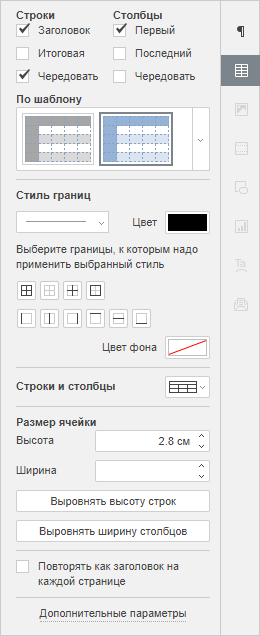
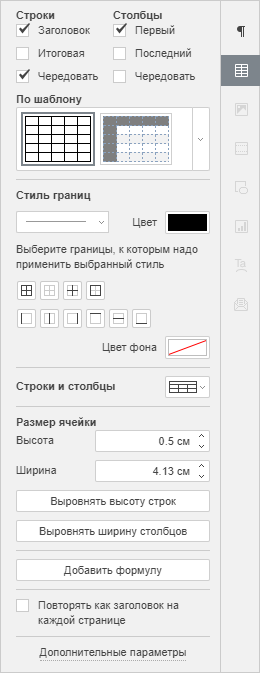
More corrections to documentation

diff --git a/OfficeWeb/apps/documenteditor/main/resources/help/ru/UsageInstructions/InsertTables.htm b/OfficeWeb/apps/documenteditor/main/resources/help/ru/UsageInstructions/InsertTables.htm
@@ -86,6 +86,7 @@
 				<li><p><b>Стиль границ</b> - используется для выбора толщины, цвета и стиля границ, а также цвета фона.</p></li>
 				<li><p><b>Строки и столбцы</b> - используется для выполнения некоторых операций с таблицей: выделения, удаления, вставки строк и столбцов, объединения ячеек, разделения ячейки.</p></li>
                 <li><p><b>Размер ячейки</b> - используется для изменения ширины и высоты выделенной ячейки. В этом разделе можно также <b>Выровнять высоту строк</b>, чтобы все выделенные ячейки имели одинаковую высоту, или <b>Выровнять ширину столбцов</b>, чтобы все выделенные ячейки имели одинаковую ширину.</p></li>
+                <li class="onlineDocumentFeatures"><p><b>Добавить формулу</b> - используется для <a href="../UsageInstructions/AddFormula.htm" onclick="onhyperlinkclick(this)">вставки формулы</a> в выбранную ячейку таблицы.</p></li>
                 <li><p><b>Повторять как заголовок на каждой странице</b> - в длинных таблицах используется для вставки одной и той же строки заголовка наверху каждой страницы.</p></li>
 				<li><p><b>Дополнительные параметры</b> - используется для вызова окна 'Таблица - дополнительные параметры'.</p></li>
 			</ul>

diff --git a/OfficeWeb/apps/documenteditor/main/resources/help/en/UsageInstructions/InsertTables.htm b/OfficeWeb/apps/documenteditor/main/resources/help/en/UsageInstructions/InsertTables.htm
@@ -86,7 +86,8 @@
 				<li><p><b>Borders Style</b> is used to select the border size, color, style as well as background color.</p></li>
 				<li><p><b>Rows &amp; Columns</b> is used to perform some operations with the table: select, delete, insert rows and columns, merge cells, split a cell.</p></li>
                 <li><p><b>Cell Size</b> is used to adjust the width and height of the currently selected cell. In this section, you can also <b>Distribute rows</b> so that all the selected cells have equal height or <b>Distribute columns</b> so that all the selected cells have equal width.</p></li>
-				<li><p><b>Repeat as header row at the top of each page</b> is used to insert the same header row at the top of each page in long tables.</p></li>
+                <li class="onlineDocumentFeatures"><p><b>Add formula</b> is used to <a href="../UsageInstructions/AddFormula.htm" onclick="onhyperlinkclick(this)">insert a formula</a> into the selected table cell.</p></li>
+                <li><p><b>Repeat as header row at the top of each page</b> is used to insert the same header row at the top of each page in long tables.</p></li>
 				<li><p><b>Show advanced settings</b> is used to open the 'Table - Advanced Settings' window.</p></li>
 			</ul>
 			<hr />

diff --git a/OfficeWeb/apps/documenteditor/main/resources/help/ru/UsageInstructions/InsertImages.htm b/OfficeWeb/apps/documenteditor/main/resources/help/ru/UsageInstructions/InsertImages.htm
@@ -25,6 +25,7 @@
 					<ul>
 						<li>при выборе опции <b>Изображение из файла</b> откроется стандартное диалоговое окно для выбора файлов. Выберите нужный файл на жестком диске компьютера и нажмите кнопку <b>Открыть</b></li>
 						<li>при выборе опции <b>Изображение по URL</b> откроется окно, в котором Вы можете ввести веб-адрес нужного изображения, а затем нажмите кнопку <b>OK</b></li>
+                        <li class="onlineDocumentFeatures">при выборе опции  <b>Изображение из хранилища</b> откроется окно <b>Выбрать источник данных</b>. Выберите изображение, сохраненное на вашем портале, и нажмите кнопку <b>OK</b></li>
 					</ul>
 				</li>
 				<li>после того, как изображение будет добавлено, можно изменить его размер, свойства и положение.</li>

diff --git a/OfficeWeb/apps/documenteditor/main/resources/help/en/UsageInstructions/InsertImages.htm b/OfficeWeb/apps/documenteditor/main/resources/help/en/UsageInstructions/InsertImages.htm
@@ -25,6 +25,7 @@
 					<ul>
 						<li>the <b>Image from File</b> option will open the standard dialog window for file selection. Browse your computer hard disk drive for the necessary file and click the <b>Open</b> button</li>
 						<li>the <b>Image from URL</b> option will open the window where you can enter the necessary image web address and click the <b>OK</b> button</li>
+                        <li class="onlineDocumentFeatures"> the <b>Image from Storage</b> option will open the <b>Select data source</b> window. Select an image stored on your portal and click the <b>OK</b> button</li>
 					</ul>
 				</li>
 				<li>once the image is added you can change its size, properties, and position.</li>
